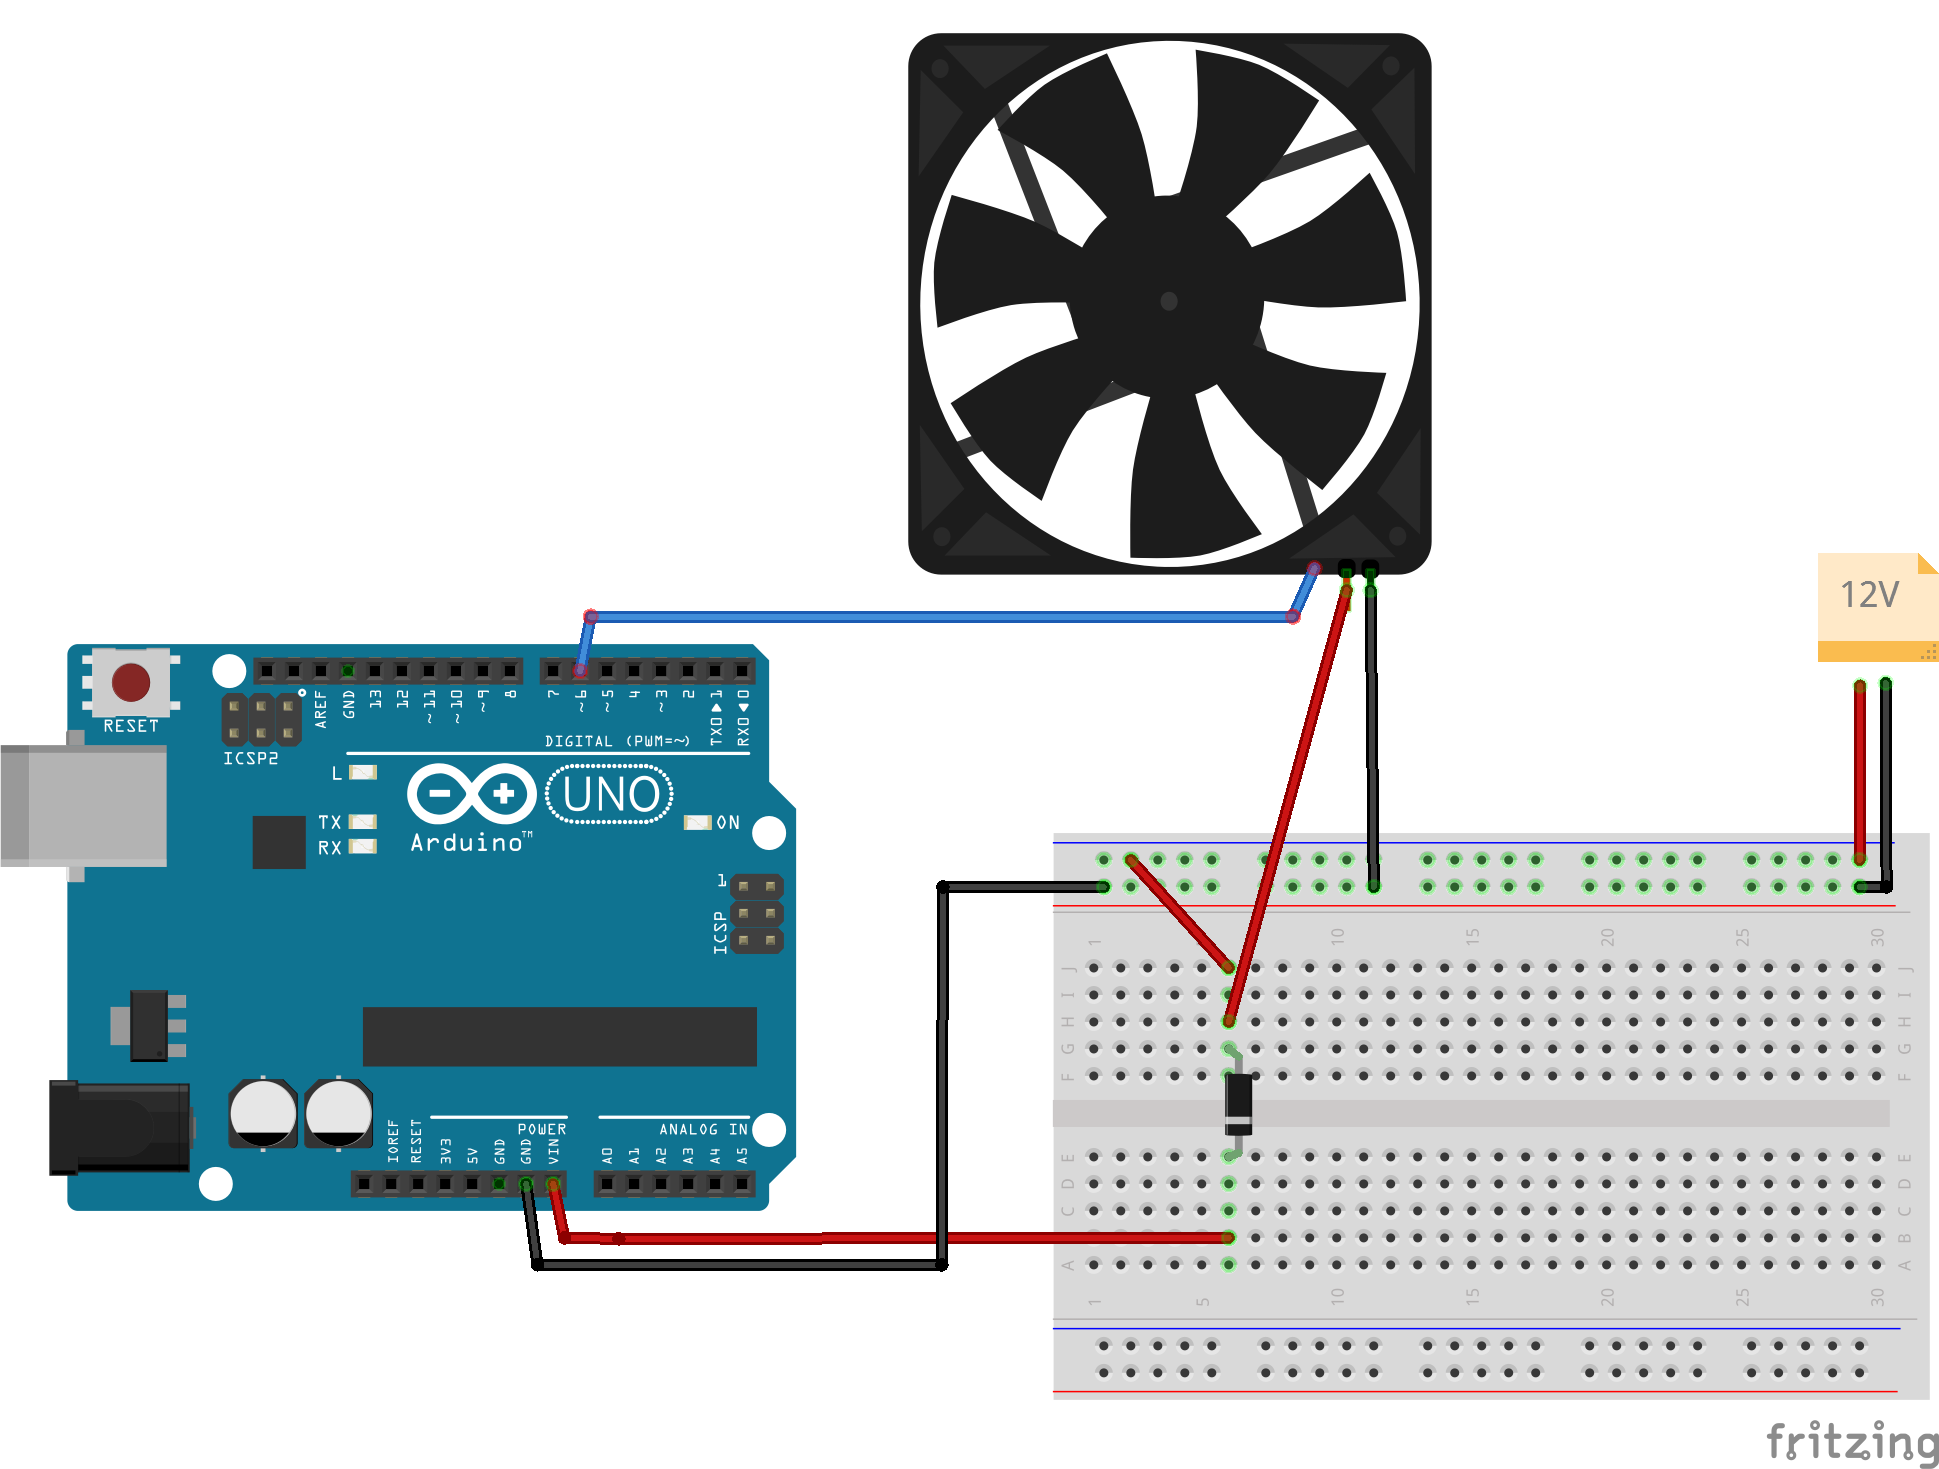
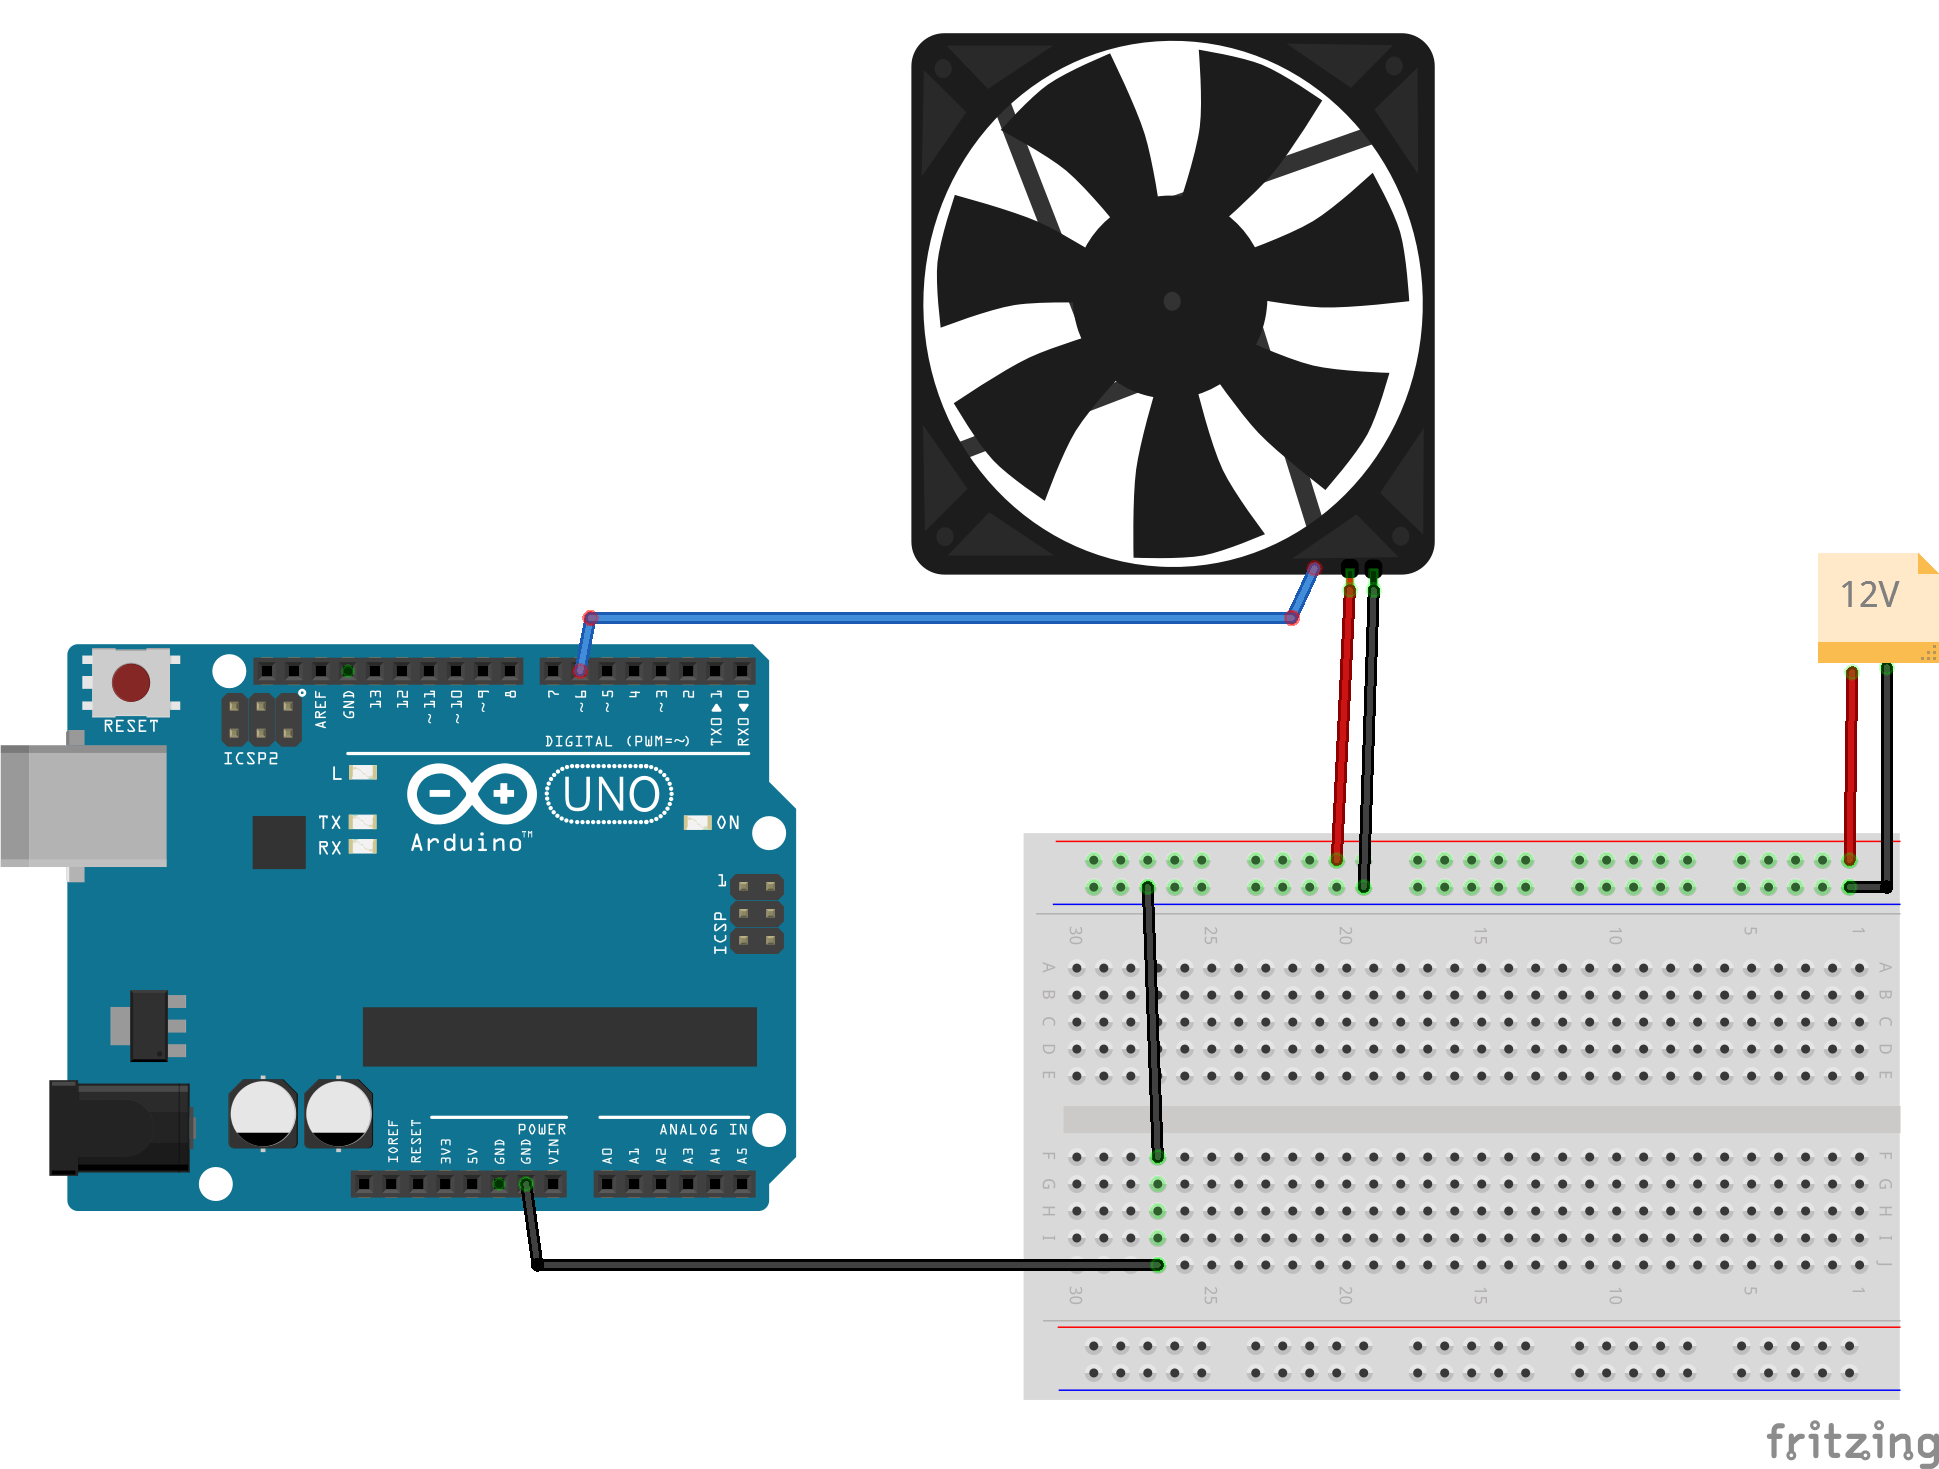
update PWM schema, code bijgewerkt (moet nog worden getest)

diff --git a/hardware-interfacing/communicatie/analoog-en-digitaal/DAC/README.md b/hardware-interfacing/communicatie/analoog-en-digitaal/DAC/README.md
@@ -52,13 +52,12 @@ De Titan Silent Fan heeft een Four-pin Molex aansluiting met de volgende aanslui
 3) Rood voor 12V
 4) Zwart voor GND
 
+> Draden kunnen van kleur verschillen. Zo zijn er ook 4 pin aansluitingen met de kleuren blauw(PWM)-groen(sense)-geel(+5V, +12V or +24V afhankelijk van het model)-zwart(GND).
 
+[Titan Fan](../DAC/img/PWM_bb.png)
 
-        Draden kunnen van kleur verschillen. Zo zijn er ook 4 pin aansluitingen met de kleuren blauw(PWM)-groen(sense)-geel(+5V, +12V or +24V afhankelijk van het model)-zwart(GND).
-
-> **MOET WORDEN BIJGEWERKT (HP)** - SCHEMA EN OPMERKING ZIJN NIET OK. 
-> [Titan Fan](../DAC/img/PWM_bb.png)
-> Plaats een diode zodat je 12V en de USB kan aansluiten zonder iets te beschadigen.
+> Let op dat je alleen de GND van de Arduino met GND van de 12V voeding en de Titan Silent Fan verbindt.  
+> Anders kan je de Arduino beschadigen.
 
 ## Arduino voorbeeld code
 
